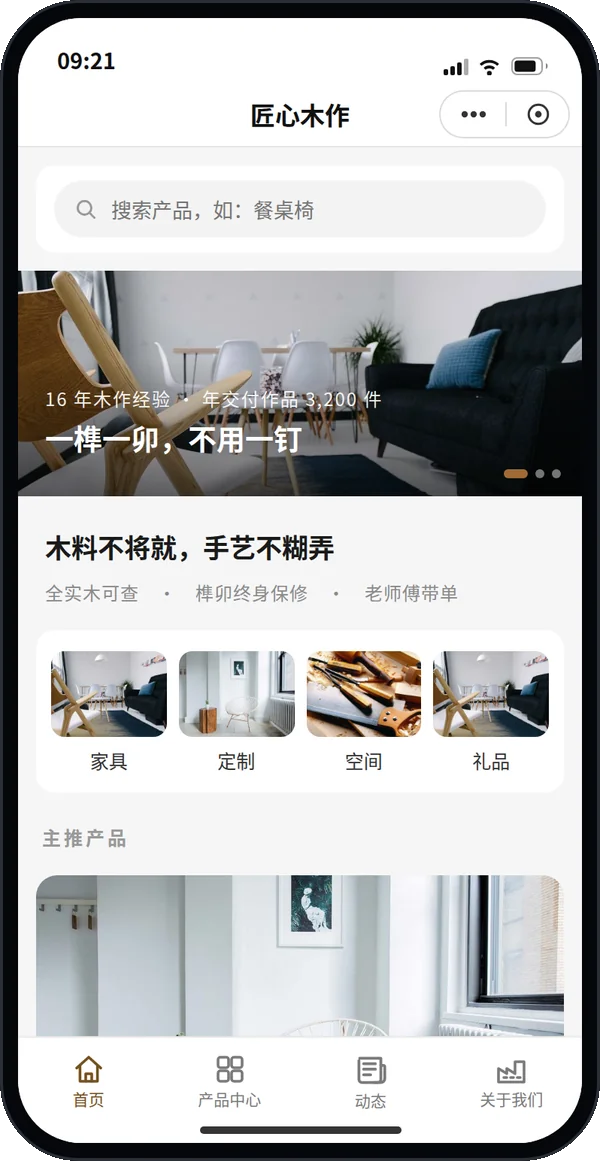
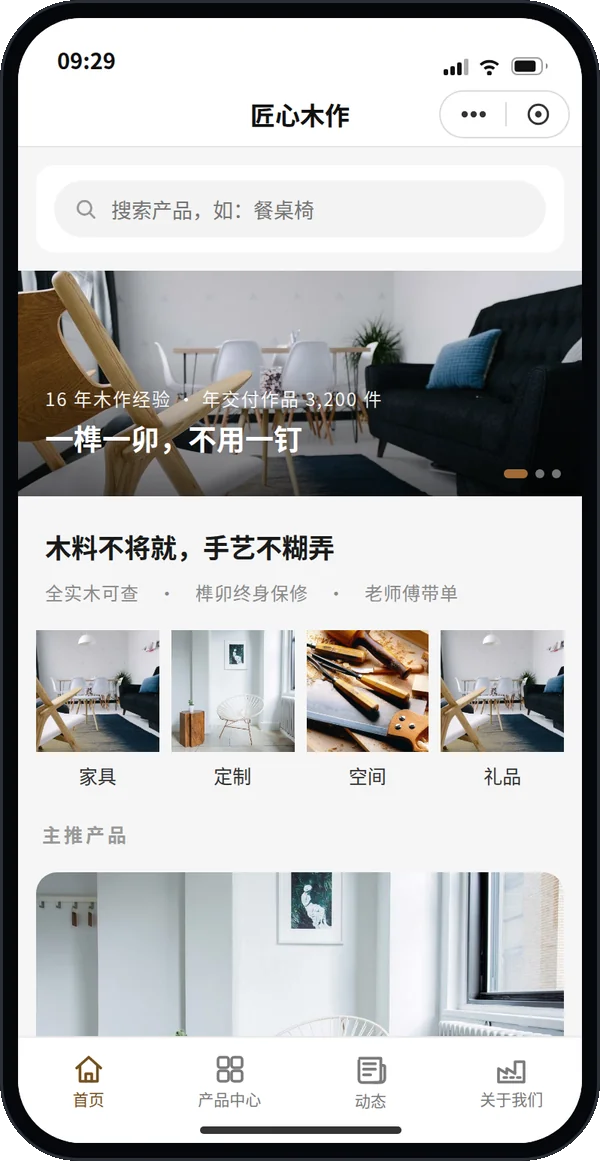
MP-S1 第十轮补正：金刚区图片改 1:1 + 去框中框（无框平铺，圆角口径对齐主推产品卡）+ 门户 S1 卡图刷新

diff --git a/mp/index.html b/mp/index.html
@@ -76,11 +76,11 @@
   .swiper .dots{ position:absolute; right:14px; bottom:12px; display:flex; gap:5px; }
   .swiper .dots i{ width:6px; height:6px; border-radius:99px; background:rgba(255,255,255,.45); }
   .swiper .dots i.on{ width:16px; background:var(--brand); }
-  .grid4{ display:grid; background:#fff; border-radius:12px; margin:12px 12px 0; padding:14px 10px 12px; gap:12px 8px; }
+  .grid4{ display:grid; margin:12px 12px 0; gap:12px 8px; }
   .grid4.c4{ grid-template-columns:repeat(4,1fr); }
   .grid4.c5{ grid-template-columns:repeat(5,1fr); }
   .gitem{ display:flex; flex-direction:column; align-items:center; gap:6px; cursor:pointer; min-width:0; }
-  .gitem img{ width:100%; aspect-ratio:4/3; object-fit:cover; border-radius:9px; display:block; background:#f2f2f2; }
+  .gitem img{ width:100%; aspect-ratio:1/1; object-fit:cover; display:block; }
   .gitem .lb{ font-size:12.5px; color:#333; }
   .stats{ display:flex; background:var(--ink); border-radius:12px; margin:12px 12px 0; padding:17px 6px 14px; }
   .stats .st{ flex:1; text-align:center; }
@@ -406,7 +406,9 @@ function strengthHTML() {
    - 格数只用主流档 {4, 5, 8, 10}（单行 4/5、双行 8=4 列 ×2、10=5 列 ×2）：实际产品分类数恰为
      合法档用原数；多于某档、不足下一档时向下取舍到最大合法档（6、7 类→5 类，9 类→8 类，>10→10 类），
      入选分类按产品数降序（同数按首次出现序）；产品分类不足 4 个 → 整区不渲染（不凑数、不留占位）。
-   - 每格顶部图 = 该分类下首个产品的图，固定比例（4:3）cover 裁切；每格为携上下文深链，
+   - 每格顶部图 = 该分类下首个产品的图，1:1 正方形 cover 裁切、无框平铺（第十轮补正，用户纠正：
+     图片改 1:1 且不要框中框——格子不套卡片框，容器与格子均无边框/底色/衬边，图片本体直接呈现，
+     圆角口径与首页主推产品卡图片一致，即不设圆角）；每格为携上下文深链，
      点击切产品中心并预筛该分类（goProducts，与原大图卡 W1 同一机制）。
    金刚区由产品数据驱动、与展示配置（预设）无关——packs-display 的 quick 字段已废弃移除。 */
 const NON_PRODUCT_CAT = /服务|售后|维修/;
